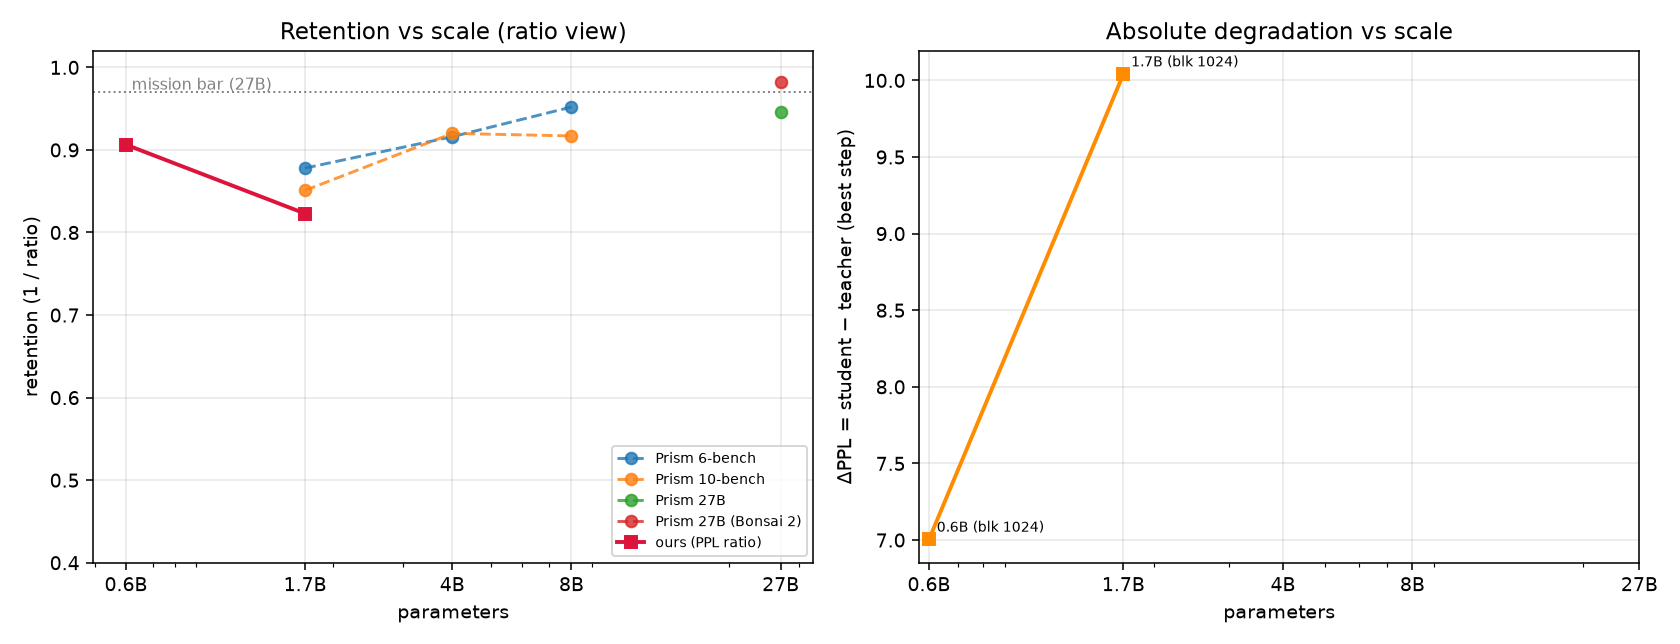
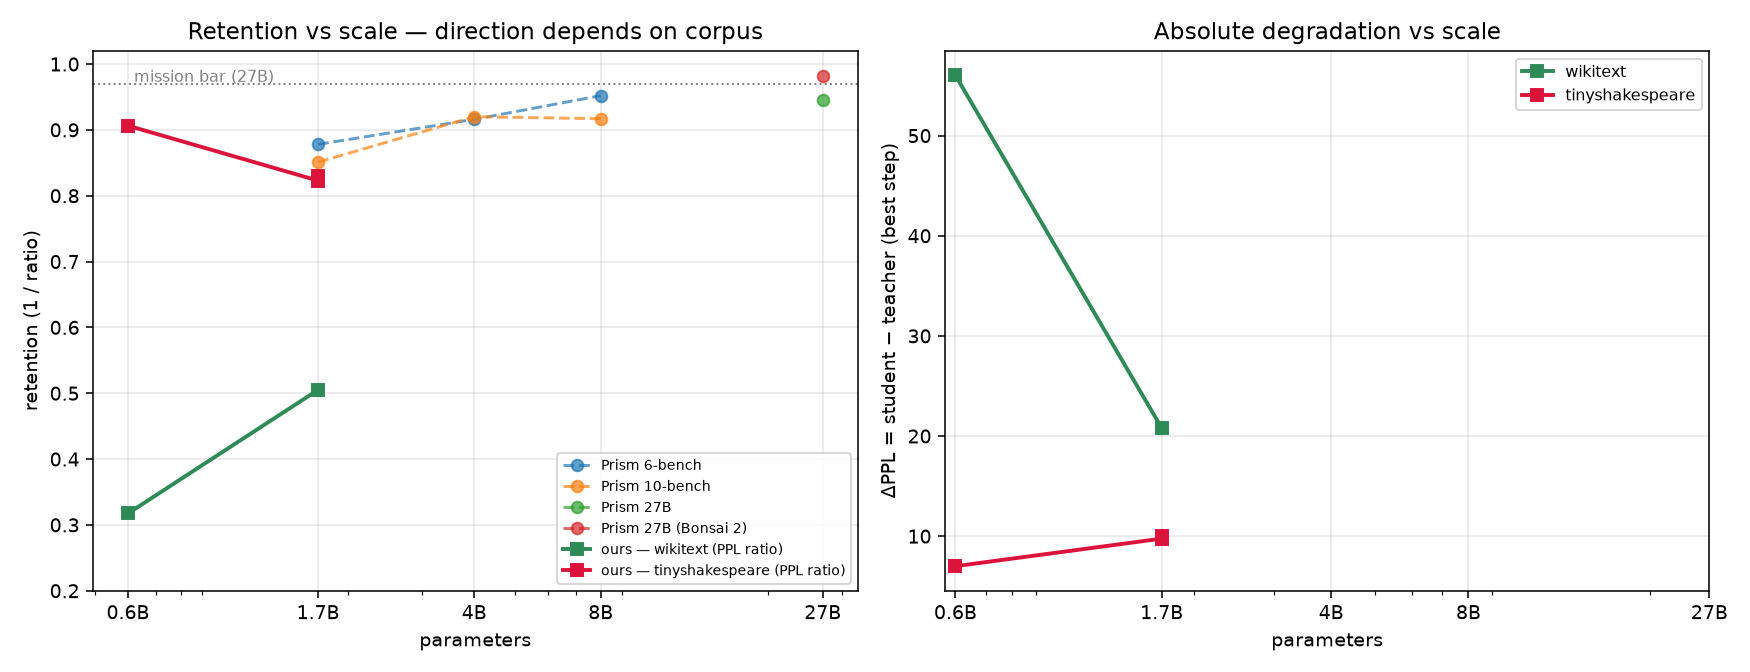
docs: ladder resolved — corpus was the confound; scale trend matches Prism
- block 512 vs 1024 at 1.7B: 1.2050 vs 1.2152 — the block is not a confound.
- tinyshakespeare (teacher PPL 49-73, OOD) vs WikiText (22-28): retention
  90.6/82.3% vs 31.7/50.5%.
- the earlier 'smaller is better' reversal was a toy-corpus artifact: on WikiText
  retention rises 31.7% -> 50.5% with size, matching Prism's direction.
- convergence confound still open: both wiki rungs peak at the final step.
- plot_retention.py now splits by corpus and writes both metric views.

diff --git a/scripts/pilot/plot_retention.py b/scripts/pilot/plot_retention.py
@@ -1,13 +1,14 @@
 """Retention vs scale — Prism's published curve vs our ladder, with an
-absolute-PPL-delta view.
+absolute-PPL-delta view and a per-corpus split.
 
-Why two panels: the ratio `student_ppl / teacher_ppl` is not scale-comparable
-when the FP teacher itself differs across sizes (a weaker teacher is easier to
-match). Absolute delta `student_ppl - teacher_ppl` is the complementary view.
-Report both; read neither alone.
+Why per-corpus: the ratio `student_ppl / teacher_ppl` is not comparable across
+corpora when the FP teacher itself differs (a weaker teacher is easier to
+match). tinyshakespeare gives teacher PPL 49-73 (out of distribution);
+WikiText gives 22-28. The same recipe shows opposite scale trends on the two,
+which is the finding, so they must be plotted separately.
 
 Prism points are transcribed from the released whitepapers
-(see docs/RETENTION-VS-SCALE.md). Our points come from the ladder reports.
+(see docs/RETENTION-VS-SCALE.md).
 
     python scripts/pilot/plot_retention.py
 """
@@ -31,13 +32,16 @@ PRISM = {
     "27B (Bonsai 2)": [(27.0, 0.982)],
 }
 
-# label -> (report dir, params_B)
+# label -> (report dir, params_B, corpus)
 RUNS = {
-    "0.6B (blk 1024)": (HB / "artifacts/rmd/ladder-0.6B", 0.6),
-    "1.7B (blk 1024)": (HB / "artifacts/rmd/ladder-1.7B", 1.7),
-    "4B (blk 512)": (HB / "artifacts/rmd/ladder-4B", 4.0),
-    "1.7B (blk 512)": (HB / "artifacts/rmd/ste-rotate-10k-block512", 1.7),
+    "shakespeare 0.6B (blk1024)": (HB / "artifacts/rmd/ladder-0.6B", 0.6, "tinyshakespeare"),
+    "shakespeare 1.7B (blk1024)": (HB / "artifacts/rmd/ladder-1.7B", 1.7, "tinyshakespeare"),
+    "shakespeare 1.7B (blk512)": (HB / "artifacts/rmd/ste-rotate-10k-block512", 1.7, "tinyshakespeare"),
+    "wiki 0.6B (blk1024)": (HB / "artifacts/rmd/wiki-0.6B", 0.6, "wikitext"),
+    "wiki 1.7B (blk1024)": (HB / "artifacts/rmd/wiki-1.7B", 1.7, "wikitext"),
 }
+
+COLORS = {"wikitext": "seagreen", "tinyshakespeare": "crimson"}
 
 
 def load(path: Path):
@@ -52,17 +56,12 @@ def load(path: Path):
         return sum(r["ppl"] - r["teacher_ppl"] for r in ev["regions"]) / len(ev["regions"])
 
     return dict(
-        params=None,
         teacher_ppl=d.get("teacher_ppl"),
-        steps=d.get("steps"),
         best_step=best["step"],
         best_ratio=best["aggregate"]["mean_ratio"],
         best_retention=1.0 / best["aggregate"]["mean_ratio"],
-        best_ppl=best["aggregate"]["mean_ppl"],
         best_delta=delta(best),
-        final_step=fin["step"],
         final_ratio=fin["aggregate"]["mean_ratio"],
-        final_retention=1.0 / fin["aggregate"]["mean_ratio"],
         final_delta=delta(fin),
     )
 
@@ -74,36 +73,39 @@ def main() -> int:
     args = ap.parse_args()
 
     rows = {}
-    for label, (path, params) in RUNS.items():
+    for label, (path, params, corpus) in RUNS.items():
         r = load(path)
         if r:
             r["params"] = params
+            r["corpus"] = corpus
             rows[label] = r
 
     # --- table ---
     lines = ["# Size ladder — ratio and absolute-delta views", "",
-             "| run | params | teacher PPL | best step | best ratio | retention | "
-             "best PPL | ΔPPL (best) | final ratio | final ΔPPL |",
+             "| run | corpus | params | teacher PPL | best step | best ratio | "
+             "retention | ΔPPL (best) | final ratio | final ΔPPL |",
              "|---|---|---|---|---|---|---|---|---|---|"]
-    for label, r in sorted(rows.items(), key=lambda kv: kv[1]["params"]):
+    for label, r in sorted(rows.items(), key=lambda kv: (kv[1]["corpus"], kv[1]["params"])):
         lines.append(
-            f"| {label} | {r['params']}B | {r['teacher_ppl']:.2f} | {r['best_step']} | "
-            f"{r['best_ratio']:.4f} | {r['best_retention']*100:.1f}% | {r['best_ppl']:.2f} | "
+            f"| {label} | {r['corpus']} | {r['params']}B | {r['teacher_ppl']:.2f} | "
+            f"{r['best_step']} | {r['best_ratio']:.4f} | {r['best_retention']*100:.1f}% | "
             f"{r['best_delta']:.2f} | {r['final_ratio']:.4f} | {r['final_delta']:.2f} |")
     table = "\n".join(lines) + "\n"
     Path(args.summary).write_text(table)
     print(table)
 
     # --- figure ---
-    fig, (ax1, ax2) = plt.subplots(1, 2, figsize=(12, 4.6))
+    fig, (ax1, ax2) = plt.subplots(1, 2, figsize=(12.5, 4.8))
 
     for label, pts in PRISM.items():
         ax1.plot([p for p, _ in pts], [r for _, r in pts], "o--",
-                 label=f"Prism {label}", alpha=0.8)
-    xs = [r["params"] for r in rows.values()]
-    ys = [r["best_retention"] for r in rows.values()]
-    if xs:
-        ax1.plot(xs, ys, "s-", color="crimson", lw=2, label="ours (PPL ratio)")
+                 label=f"Prism {label}", alpha=0.7)
+    for corpus in ("wikitext", "tinyshakespeare"):
+        pts = sorted((r["params"], r["best_retention"])
+                     for r in rows.values() if r["corpus"] == corpus)
+        if pts:
+            ax1.plot([p for p, _ in pts], [v for _, v in pts], "s-",
+                     color=COLORS[corpus], lw=2, label=f"ours — {corpus} (PPL ratio)")
     ax1.axhline(0.97, color="grey", ls=":", lw=1)
     ax1.text(0.62, 0.973, "mission bar (27B)", color="grey", fontsize=8)
     ax1.set_xscale("log")
@@ -111,17 +113,17 @@ def main() -> int:
     ax1.set_xticklabels(["0.6B", "1.7B", "4B", "8B", "27B"])
     ax1.set_xlabel("parameters")
     ax1.set_ylabel("retention (1 / ratio)")
-    ax1.set_ylim(0.4, 1.02)
+    ax1.set_ylim(0.2, 1.02)
     ax1.grid(alpha=0.3)
-    ax1.set_title("Retention vs scale (ratio view)")
+    ax1.set_title("Retention vs scale — direction depends on corpus")
     ax1.legend(fontsize=7, loc="lower right")
 
-    if xs:
-        ys_delta = [r["best_delta"] for r in rows.values()]
-        ax2.plot(xs, ys_delta, "s-", color="darkorange", lw=2)
-        for label, r in rows.items():
-            ax2.annotate(label, (r["params"], r["best_delta"]), fontsize=7,
-                         textcoords="offset points", xytext=(4, 4))
+    for corpus in ("wikitext", "tinyshakespeare"):
+        pts = sorted((r["params"], r["best_delta"])
+                     for r in rows.values() if r["corpus"] == corpus)
+        if pts:
+            ax2.plot([p for p, _ in pts], [v for _, v in pts], "s-",
+                     color=COLORS[corpus], lw=2, label=corpus)
     ax2.set_xscale("log")
     ax2.set_xticks([0.6, 1.7, 4, 8, 27])
     ax2.set_xticklabels(["0.6B", "1.7B", "4B", "8B", "27B"])
@@ -129,6 +131,7 @@ def main() -> int:
     ax2.set_ylabel("ΔPPL = student − teacher (best step)")
     ax2.grid(alpha=0.3)
     ax2.set_title("Absolute degradation vs scale")
+    ax2.legend(fontsize=8)
 
     fig.tight_layout()
     out = Path(args.out)

diff --git a/docs/RETENTION-VS-SCALE.md b/docs/RETENTION-VS-SCALE.md
@@ -69,39 +69,42 @@ matched, and compare the *shape* of our retention-vs-size curve to Prism's:
 
 That is the falsifiable question. "We could not reach 97% at 1.7B" is not.
 
-## Ladder results so far (2026-09-23) — and three confounds
+## Ladder results — resolved (2026-09-23)
 
-TinyShakespeare, 10k steps, seed 1337, 8×8 holdout. Holdout verified against the
-F11 leak: 589 windows − (8 regions × 8) = 525 train windows, matching the log.
+10k steps, seed 1337, 8×8 holdout (verified against the F11 leak). Two corpora
+plus a block-size control:
 
-| rung | teacher PPL | best step | best ratio | retention | ΔPPL (best) |
-|---|---|---|---|---|---|
-| 0.6B (blk 1024) | 73.36 | 6500 | 1.1033 | 90.6% | 7.00 |
-| 1.7B (blk 1024) | 48.98 | 10000 | 1.2152 | 82.3% | 10.04 |
-| 4B (blk 512, split) | — | — | ~3.3 (killed @6000) | — | — |
+| run | corpus | teacher PPL | best@ | ratio | retention | ΔPPL |
+|---|---|---|---|---|---|---|
+| 0.6B (blk1024) | tinyshakespeare | 73.36 | 6500 | 1.1033 | 90.6% | 7.00 |
+| 1.7B (blk1024) | tinyshakespeare | 48.98 | 10000 | 1.2152 | 82.3% | 10.04 |
+| 1.7B (**blk512**) | tinyshakespeare | 48.98 | 9000 | 1.2050 | 83.0% | 9.76 |
+| 0.6B (blk1024) | **wikitext** | 27.99 | 10000 | 3.1506 | 31.7% | 56.01 |
+| 1.7B (blk1024) | **wikitext** | 21.92 | 10000 | 1.9798 | 50.5% | 20.79 |
 
-**Both metrics agree** — the smaller model degrades less in ratio *and* in
-absolute ΔPPL, so it is not a metric artifact. The 1.7B's trajectory also
-plateaus (oscillating ~1.22–1.34) rather than still descending, so it is not
-under-training either. On this evidence the recipe shows the **opposite** of
-Prism's scale trend. Three confounds must be cleared first:
+**Confound 3 (rotation block) — resolved: nil.** Same size, corpus and steps:
+blk512 gives 1.2050 vs blk1024's 1.2152 — marginally *better*. The block explains
+nothing once trained; its ~3× penalty is an init-only effect.
 
-1. **Corpus.** Teacher PPL is 73 (0.6B) / 49 (1.7B) on tinyshakespeare — both far
-   out of distribution, so "retention of a struggling FP model" may measure
-   corpus quirks. The `wiki-*` runs (teacher PPL ~25) address this.
-2. **Rotation block.** The spec rule gives block 512 for the 4B (widths 2560,
-   9728) but 1024 for 0.6B/1.7B, so the ladder varies block as well as size.
-   Early signal on the 1.7B control: block 512 is ~3× worse at init and ~10%
-   worse at step 2000. `ste-rotate-10k-block512` settles the converged effect.
-3. **Convergence / schedule.** All rungs are constant-LR with no schedule, and
-   the 1.7B sits near its divergence boundary. None is a converged, scheduled run.
+**Confound 1 (corpus) — resolved: decisive.** On WikiText (teacher PPL 22–28,
+in-distribution) retention is 31.7% / 50.5%, versus 90.6% / 82.3% on
+tinyshakespeare. The toy corpus was flattering by a very large margin.
 
-**Protocol implication.** A fixed-step ladder is iso-token, which under-trains
-larger models; and a ratio measured against a per-model teacher is not
-scale-comparable when teacher PPL varies. A defensible scaling test needs
-(a) iso-compute or iso-convergence (e.g. managed decay per rung), (b) a corpus
-where the teacher is in-distribution, and (c) a common reference for the metric.
-Until then the ladder supports no scaling claim in either direction.
+**The earlier "reversal" was a corpus artifact.** On tinyshakespeare smaller
+looked better (90.6% → 82.3%); on WikiText it inverts to **31.7% → 50.5%** —
+retention rising with size, matching Prism's direction, with ΔPPL agreeing
+(56.0 → 20.8). So the recipe's scale trend is right once the teacher is
+in-distribution.
+
+**Confound 2 (convergence) — still open.** On WikiText both rungs peak at step
+10000 — the final step, still descending, i.e. under-trained (the iso-token
+problem). Absolute retention (31.7% / 50.5%) remains far below Prism's 85–88% at
+1.7B. The *direction* is settled; the *level* needs iso-convergence — see
+[`SCALING-PROTOCOL.md`](SCALING-PROTOCOL.md).
+
+The 4B rung was abandoned as an instrument (block 512, split devices, no
+schedule, and diverging by step 5500); the block control above shows the block
+was not the reason.
 
 Scripts: `scripts/pilot/run_size_ladder.sh`, `run_wiki_ladder.sh`,
 `run_rotblock_control.sh`, `plot_retention.py` (writes
